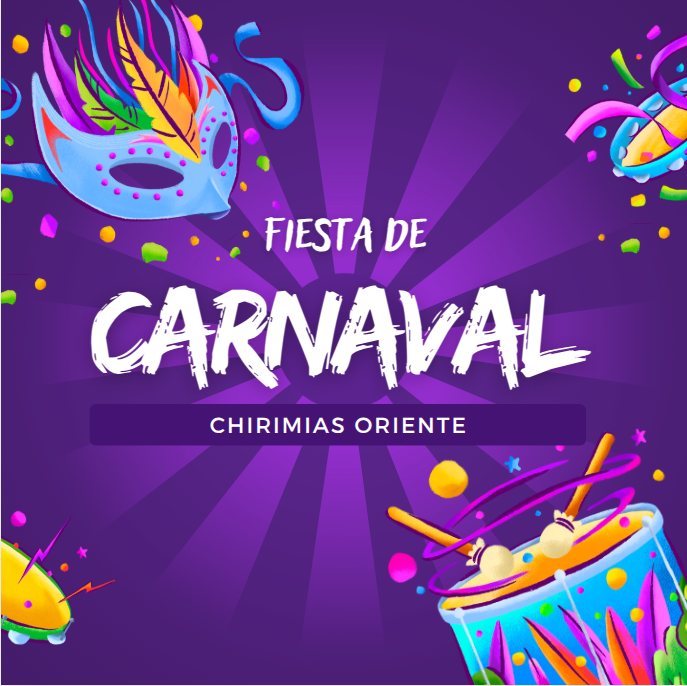
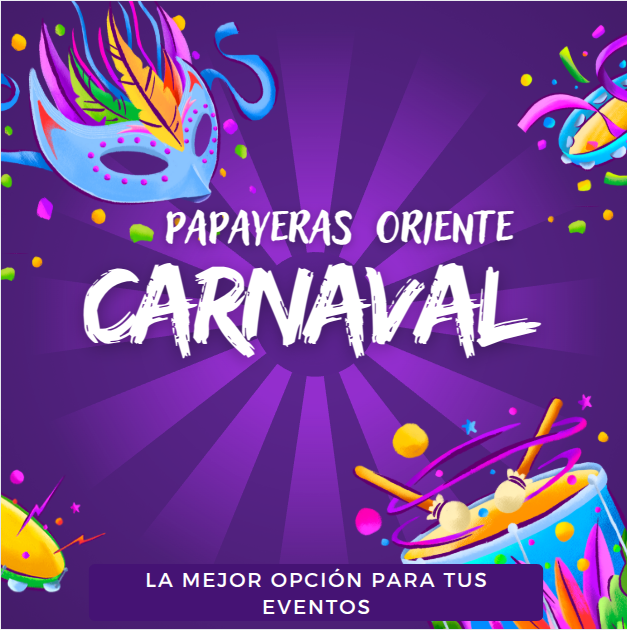
wp:cambio secion

diff --git a/index.html b/index.html
@@ -4,7 +4,7 @@
 <head>
 	<meta charset="UTF-8">
 	<meta name="viewport" content="width=device-width, initial-scale=1.0">
-	<title>ChirimiasOiente</title>
+	<title>Papayeras Oriente</title>
 	<!-- style css -->
 	<link rel="stylesheet" href="style.css">
 	<!-- remix icon cdn -->
@@ -18,7 +18,7 @@
 <body>
 	<nav>
 		<div class="logo">
-			<a href="#">Chirimias<span>Oriente.</span></a>
+			<a href="#">Papayeras<span>Oriente.</span></a>
 		</div>
 		<ul class="menu">
 			<li><a href="#">Inicio</a></li>
@@ -40,37 +40,42 @@
 				<div class="swiper-slide">
 					<div class="hero_slide">
 						<div class="hero_title">
-							<span>Festeja tus <br> eventos !</span>
+							<span style="font-size: 4rem;">Papayeras <br> Oriente!</span>
+							<p style="font-size: 30px; color: #FFD700; text-align: center; padding: 12px;">
+								No pierdas la oportunidad de vivir una experiencia única con nuestra papayeras en el oriente Antioqueño! Contáctanos ahora para reservar.
+							</p>
+							<a href="https://wa.me/1234567890" style="display: inline-block; padding: 10px 20px; background-color: #FFD700; color: #000; text-decoration: none; border-radius: 5px; font-size: 20px; margin-top: 10px;">Agenda</a>
 						</div>
 						<div class="element element1">
-							<img src="image/acordeon.png" alt="">
+							<img src="image/acordeon.png" alt="" style="width: 50%; height: auto;">
 						</div>
 						<div class="element element2">
-							<img src="image/toro.png" alt="">
+							<img src="image/toro.png" alt="" style="width: 50%; height: auto;">
 						</div>
 						<div class="element element3">
-							<img src="image/marimonda.png" alt="">
+							<img src="image/marimonda.png" alt="" style="width: 50%; height: auto;">
 						</div>
 						<div class="element element4">
-							<img src="image/tambor.png" alt="">
+							<img src="image/tambor.png" alt="" style="width: 50%; height: auto;">
 						</div>
 						<div class="element element5">
-							<img src="image/maracas.png" alt="">
+							<img src="image/maracas.png" alt="" style="width: 50%; height: auto;">
 						</div>
 						<div class="element element6">
-							<img src="image/jaguar.png" alt="">
+							<img src="image/jaguar.png" alt="" style="width: 50%; height: auto;">
 						</div>
 						<div class="element element7">
-							<img src="image/burro.png" alt="">
+							<img src="image/burro.png" alt="" style="width: 50%; height: auto;">
 						</div>
+						
 					</div>
 				</div>
 				<div class="swiper-slide">
 					<div class="hero_slide2">
 						<img src="image/lollipop.gif" alt="" id="hero_img">
 						<div class="hero_title2">
-							<span> Fiesta </span>
-							<span> Diversión</span>
+							<span> papayeras </span>
+							<span> Folclor</span>
 						</div>
 					</div>
 				</div>
@@ -108,7 +113,7 @@
 					<img src="image/white_triangle_01.png" alt="">
 				</div>
 				<div class="triangle_content">
-					<h2>Pelayero</h2>
+					<h2>Papayera</h2>
 					<button class="btn">Agenda</button>
 				</div>
 			</div>
@@ -153,7 +158,7 @@
 			<img src="image/carnaval1.png" alt="">
 		</div>
 		<div class="Offer_title section_title">
-			<h3>Chirimias Oriente</h3>
+			<h3>Papayeras Oriente</h3>
 			<h2>Agenda <br>
 				tenemos diferentes formatos<br>
 				para tus fiestas</h2>

diff --git a/style.css b/style.css
@@ -234,22 +234,46 @@ body {
 
 /* Hero section */
 .hero {
-	min-height: 100vh;
+	margin-top: 90px;
+	min-height: calc(100vh - 90px);
 	position: relative;
 	padding: 0;
+}
+
+@keyframes fadeInUp {
+	0% {
+		opacity: 0;
+		transform: translateY(20px); /* Comienza un poco más abajo */
+	}
+	100% {
+		opacity: 1;
+		transform: translateY(0); /* Termina en su posición original */
+	}
 }
 
 .hero_title {
 	position: absolute;
 	top: 50%;
-	left: 28%;
+	left: 50%;
 	transform: translate(-50%, -50%);
+	background-color: rgba(0, 0, 0, 0.5);
+	padding: 20px;
+	border-radius: 10px;
+	text-align: center;
+	color: #fcf5d2;
+	font-family: 'Comic Sans MS', cursive, sans-serif;
+	text-shadow: 2px 2px 4px rgba(0, 0, 0, 0.7);
+	font-size: 5rem;
+	max-width: 90%;
+	margin: 0 auto;
+	z-index: 100;
+	animation: fadeInUp 2s ease-in-out; /* Aumentar la duración a 2s */
 }
 
 .hero_title span {
 	color: var(--white);
 	font-size: 8.5rem;
-	line-height: 9.5rem;
+	
 }
 
 .hero_slide {
@@ -358,9 +382,10 @@ body {
 .hero_slide3 {
 	height: 100%;
 	width: 100%;
-	background: rgb(58, 101, 180);
-	background: linear-gradient(90deg, rgb(22, 147, 250) 0%, rgb(252, 211, 29) 50%, rgb(80, 230, 117) 100%);
-	position: relative;
+	background-image: url(image/hero_home_01_03.jpg);
+	background-size: cover;
+	background-repeat: no-repeat;
+	background-position: center center;
 	overflow: hidden;
 }
 

diff --git a/script.js b/script.js
@@ -2,10 +2,11 @@ var swiper = new Swiper(".mySwiper", {
   spaceBetween: 30,
   effect: "fade",
   loop: true,
-  autoplay: {
-    delay: 5000,
-    disableOnInteraction: false,
-  },
+  // Desactivar autoplay para facilitar la edición
+  // autoplay: {
+  //   delay: 5000,
+  //   disableOnInteraction: false,
+  // },
   speed: 3000,
   pagination: {
     el: '.swiper-pagination',
@@ -20,4 +21,9 @@ toggle.addEventListener('click', function () {
   const isExpanded = toggle.getAttribute('aria-expanded') === 'true';
   toggle.setAttribute('aria-expanded', !isExpanded);
   menu.classList.toggle('active');
+});
+
+// Pausar autoplay al hacer clic en un botón
+document.getElementById('pauseButton').addEventListener('click', function() {
+  swiper.autoplay.stop();
 });
